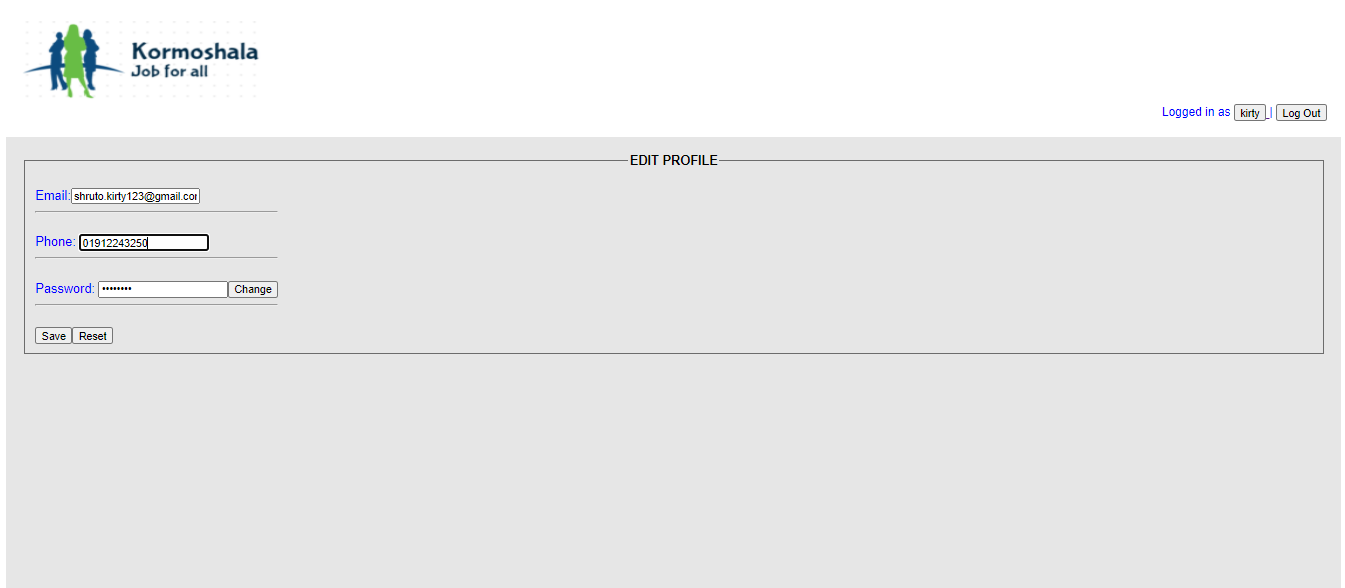
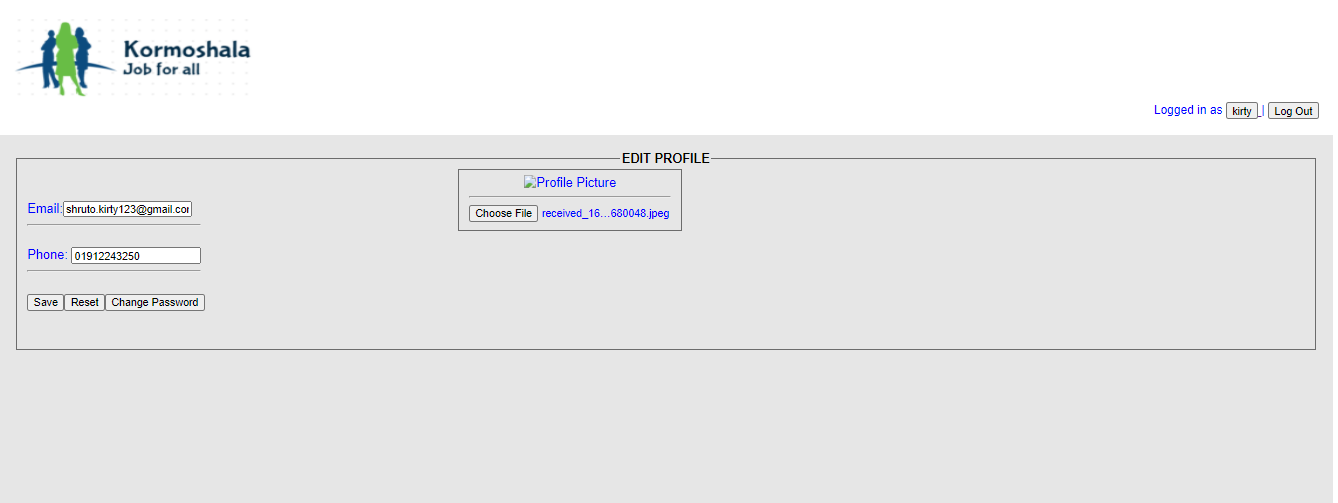
Updating Lab Task6

Changed region(s): [[0.0, 0.0298, 1.0, 1.0], [0.3371, 0.328, 0.5209, 0.4473], [0.9806, 0.2982, 1.0, 0.5964]]

diff --git a/Lab task 6/CODES/editprofile.php b/Lab task 6/CODES/editprofile.php
@@ -13,22 +13,13 @@ if (isset($_SESSION['username'])) { ?>
 </head>
 <body>
 
-
-
-
 <header>
 
 	<?php
 	
 	 include 'controller\header.php';
-	 // $email="jahnnabi.moni54@gmail.com";
-  //  $phone="01930284388";
-  //  $pass="******";
-
 
 	 ?></header>
-
-
 
 <section>
   
@@ -38,41 +29,32 @@ if (isset($_SESSION['username'])) { ?>
   	
     <fieldset>
 <legend><B>EDIT PROFILE</B></legend><div style= 'margin-right: 750px;float: left; text-align: left;color: blue;'> <!-- Username: <input type='text' name='name' value=".$_SESSION['username']."> -->
-<form method="post" action="<?php echo htmlspecialchars('controller/editProfileController.php');?>">
-  <br>Email:<input type='text' name='email' value="<?php echo $corpEmployee['Email']; ?>">
+<form method="post" action="<?php echo htmlspecialchars('controller/editProfileController.php');?>" enctype="multipart/form-data">
+  <br><br>Email:<input type='text' name='email' value="<?php echo $corpEmployee['Email']; ?>">
   <span class="error"><?php if(!empty($_GET['emailErr'])){echo $_GET['emailErr'];} ?></span><hr>
 
   <br>
   Phone: <input type='tel' name='phone' placeholder='01234567891'  value="<?php echo $corpEmployee['Phone']; ?>">
   <span class="error"><?php if(!empty($_GET['phnErr'])){echo $_GET['phnErr'];} ?></span><hr>
   <br>
-  </form>
-  Password: <input type='password' name='password' value="<?php echo $corpEmployee['Password']; ?>"><a href='changepassword.php'><button>Change</button></a><hr>
+  <!-- Password: <input type='password' name='password' value="<?php //echo $corpEmployee['Password']; ?>"> -->
+  <input type='submit' name='save' value='Save'><input type="reset" value="Reset"><br><br>
   <br>
-  
-  <input type='submit' name='save' value='Save'><input type="reset" value="Reset">
-  
   </div>
- <!--  <div style= 'float: right;position: absolute;left:580px; top: 215px;color: blue;'>
-  <fieldset>
-<img src='<?php //echo $corpEmployee['Image']; ?>' alt='Profile Picture' width='150' height='150'><br>
-  <input type='file' name='fileToUpload' id='fileToUpload'><hr>
-  <input type='submit' value='Submit' name='Change'>
-
-</fieldset>
+  <div style= 'float: right;position: absolute;left:580px; top: 215px;color: blue;'>
+ <fieldset>
+  <img src='uploads/<?php echo $corpEmployee['Image']; ?>' alt='Profile Picture' width='150' height='150'><hr>
+ <input type="file" name="fileToUpload" id="fileToUpload">
+ </fieldset>
   </div>
- -->
-  </fieldset>
 </form>
+<div style= 'float: right;position: absolute;left:141px; top: 371px;color: blue;'>
+  <a href='changepassword.php'><button>Change Password</button></a>
+</div>
 
+  </fieldset>
+ 
 
-
- <!-- <form action='uploadppController.php' method='post' enctype='multipart/form-data'>
-  <input type='file' name='fileToUpload' id='fileToUpload'><hr>
-  <input type='submit' value='Submit' name='submit'>
- -->
-
-   
   </article>
 </section>
 

diff --git a/Lab task 6/CODES/controller/editProfileController.php b/Lab task 6/CODES/controller/editProfileController.php
@@ -10,6 +10,8 @@ $emailErr = $email = $phn = $phnErr = "";
 $message = '';  
 $error = ''; 
 
+$target_dir = "../uploads/";
+$target_file = $target_dir . basename($_FILES["fileToUpload"]["name"]);
 
 
 if ($_SERVER["REQUEST_METHOD"] == "POST") {
@@ -55,23 +57,22 @@ else
 );
       header("location:../editprofile.php?" . http_build_query($args));
    }
-}
+ }
 
 if($check == 1) {
 	$data['Email'] = $_POST['email'];
 	$data['Phone'] = $_POST['phone'];
-//   $data['Image'] = basename($_FILES["image"]["name"]);
+  $data['Image'] =$target_file;
 
-//   $target_dir = "../uploads/";
-//   $target_file = $target_dir . basename($_FILES["image"]["name"]);
+  if (move_uploaded_file($_FILES["fileToUpload"]["tmp_name"], $target_file))  {
+    echo "The file ". basename( $_FILES["image"]["name"]). " has been uploaded.";
+  } else {
+    echo "Sorry, there was an error uploading your file.";
+  }
 
-//   if (move_uploaded_file($_FILES["image"]["tmp_name"], $target_file)) {
-//     echo "The file ". basename( $_FILES["image"]["name"]). " has been uploaded.";
-//   } else {
-//     echo "Sorry, there was an error uploading your file.";
-//   }
 
-  if (updateEmployee($tableName, $_SESSION['username'], $data)) {
+
+  if (updateEmployee($tableName, $_SESSION['username'],$data)) {
   	header('Location: ../viewprofile.php');
   }
   else {
@@ -79,6 +80,8 @@ if($check == 1) {
 	header('Location: ../editprofile.php');
 }
 }
+
+
 
 function test_input($data) {
   $data = trim($data);

diff --git a/Lab task 6/CODES/viewprofile.php b/Lab task 6/CODES/viewprofile.php
@@ -51,25 +51,13 @@ if (isset($_SESSION['username'])) { ?>
   
   </div>
  <div style= 'float: right;position: absolute;left:580px; top: 240px;color: blue;'>
-
-    <form method="post" action='controller/uploadppController.php' method="post" enctype="multipart/form-data">
   <fieldset>
-<img src='<?php echo $corpEmployee['Image']; ?>' alt='Profile Picture' width='150' height='150'><br>
-  <input type='file' name='fileToUpload' id='fileToUpload'><hr>
-  <input type="submit" name="changeProPic" value="Change">
+<img src="uploads/<?php echo $corpEmployee['Image']; ?>" alt='Profile Picture' width='150' height='150'><br>
   <div style="color: red;"><?php if(!empty($_GET['msg'])){echo $_GET['msg'];} ?></div>
 </fieldset>
-</form>
   </div>
 
-
   </fieldset>
-
-
-
-
-
-   
   </article>
 </section>
 
